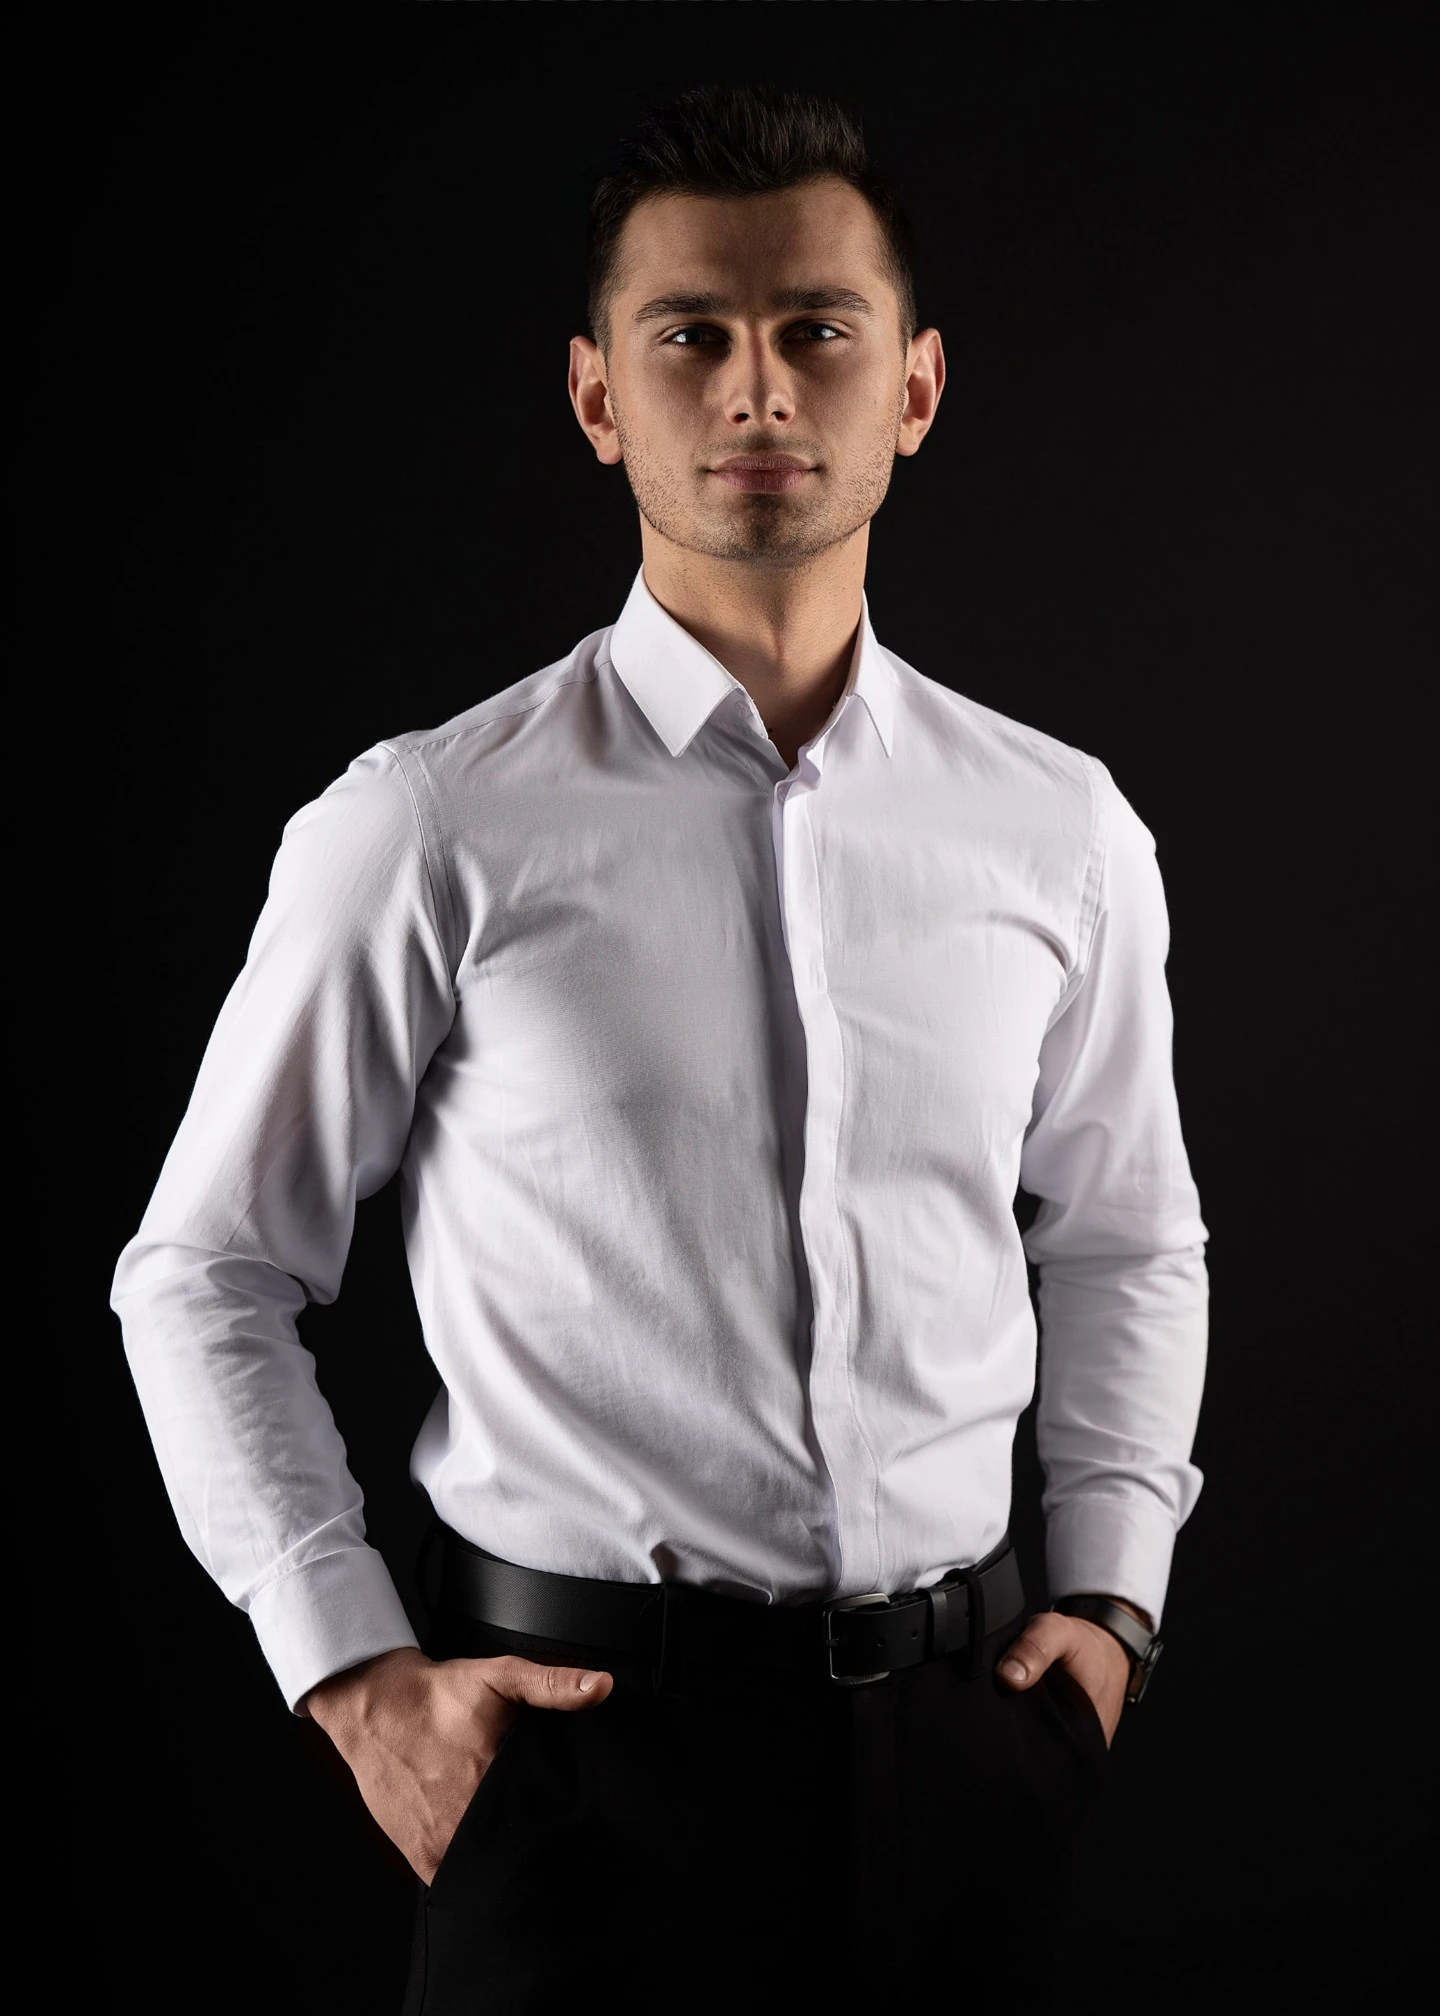
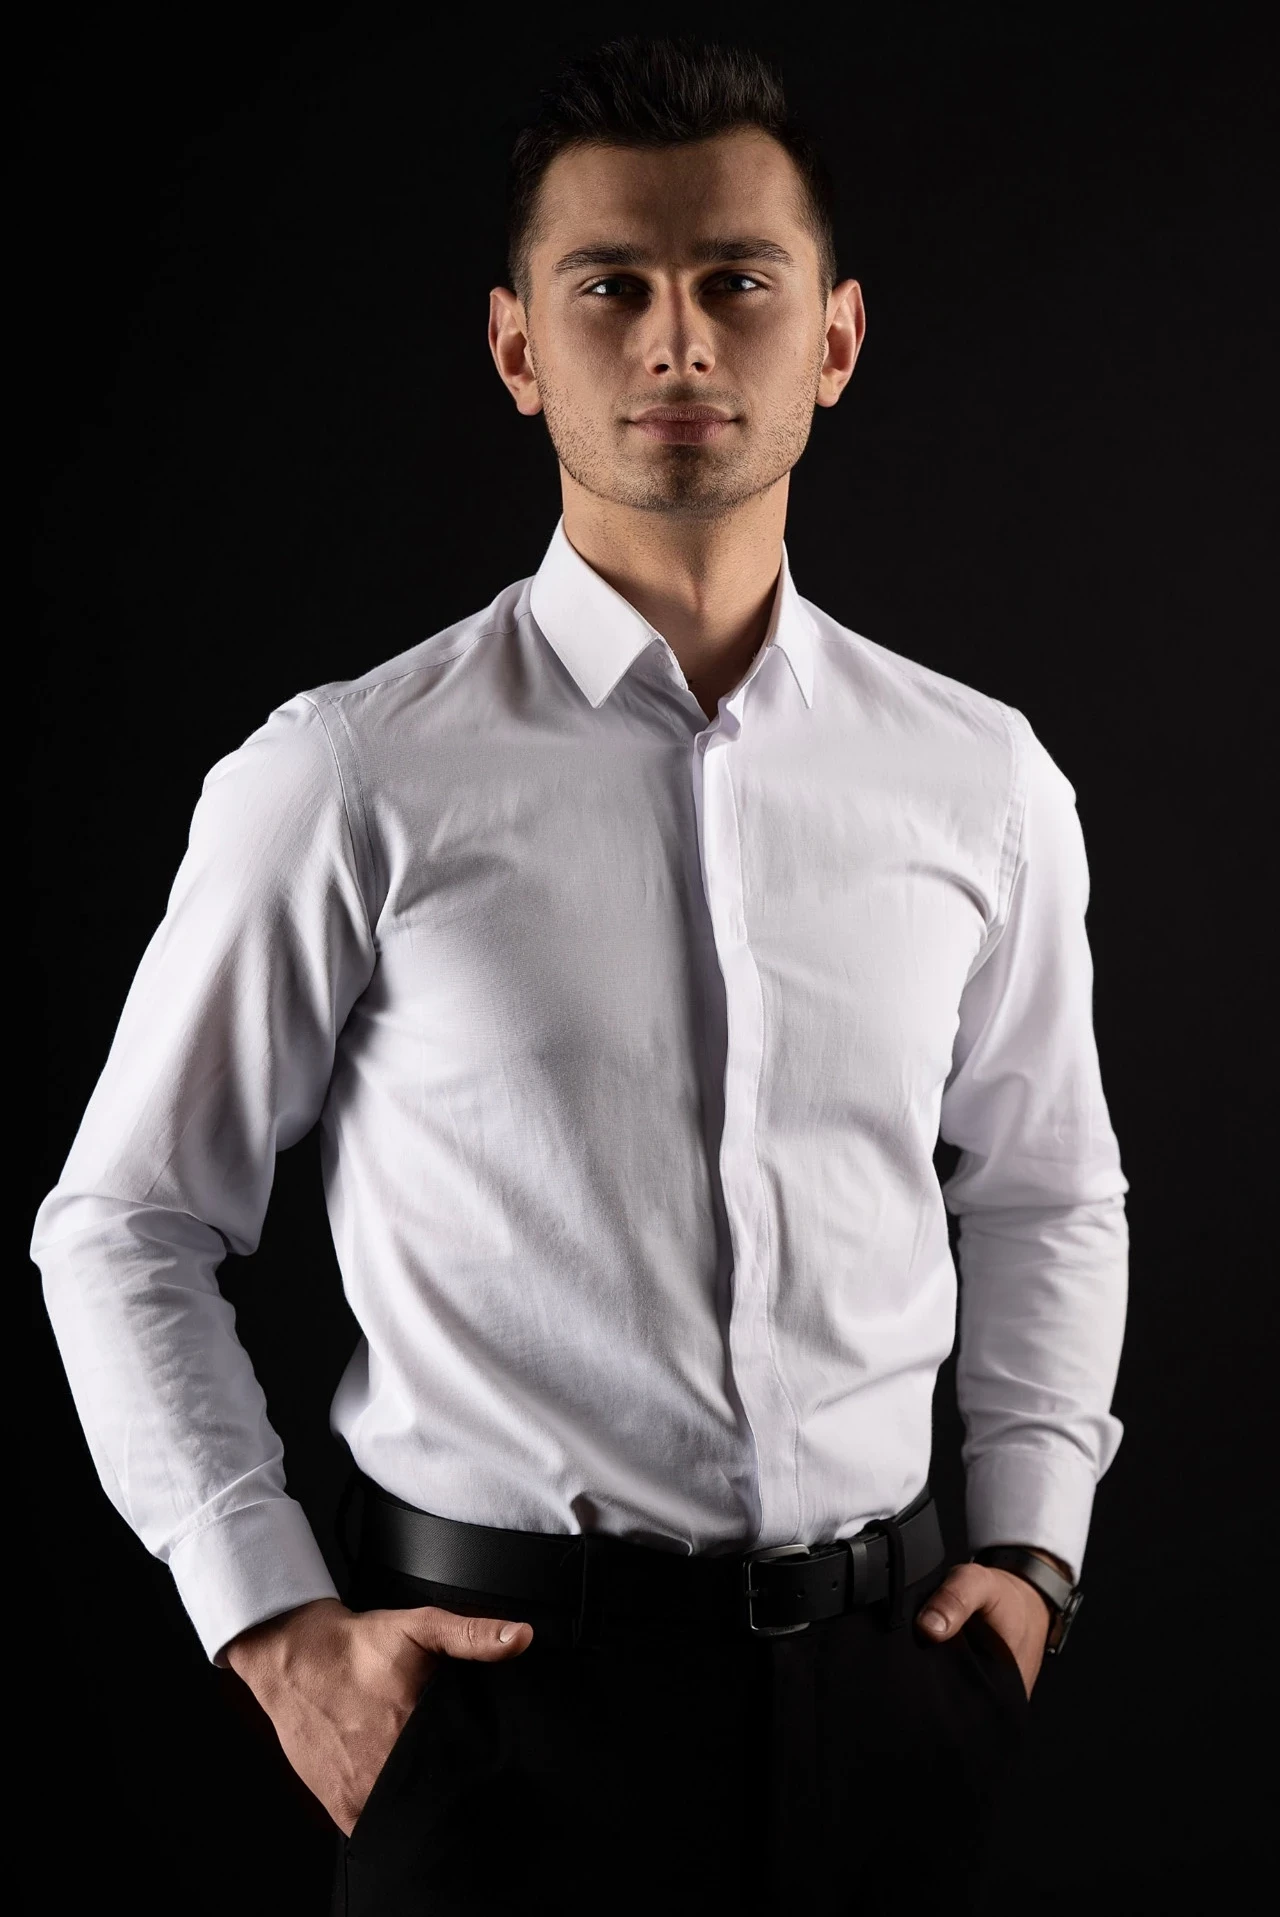
improved gradients and images in About page

Changed region(s): [[0.0, 0.0308, 0.9062, 0.9541]]

diff --git a/src/pages/omnie.tsx b/src/pages/omnie.tsx
@@ -29,20 +29,19 @@ function About() {
                     display: "flex",
                     flexDirection: "column",
                     justifyContent: "center",
-                    alignItems: "stretch",
+                    alignItems: "center",
                     padding: "30px",
-                    background: "rgba(0,0,0,.5)",
-                }}
-            >
+                    background: "rgba(0,0,0,.5)"
+                }}>
                 <Grow in={true} timeout={1000}>
                     <Box
                         sx={{
                             display: "flex",
                             flexDirection: "column",
                             justifyContent: "center",
-                            alignItems: "stretch",
-                        }}
-                    >
+                            alignItems: "center",
+                            maxWidth: "840px"
+                        }}>
                         {overMd ? (
                             <>
                                 <Typography variant="h1" sx={{ fontSize: "1.5rem" }} align="center">
@@ -60,9 +59,8 @@ function About() {
                                         padding: "1rem",
                                         borderRadius: "1rem",
                                         height: "600px",
-                                        flexGrow: 1,
-                                    }}
-                                >
+                                        flexGrow: 1
+                                    }}>
                                     <span
                                         style={{
                                             position: "absolute",
@@ -72,34 +70,31 @@ function About() {
                                             height: "100%",
                                             filter: "blur(15px)",
                                             background: "linear-gradient(270deg, #100B9A, #004DD0, #0079EB, #00A0EC, #00C4D9)",
-                                            zIndex: 1,
-                                        }}
-                                    ></span>
+                                            zIndex: 1
+                                        }}></span>
                                     <Image
                                         src={aboutSrc1}
                                         width={1440}
                                         height={2016}
                                         alt="O DJ KUBA - zdjęcie 1"
-                                        style={{ width: "auto", height: "100%", borderRadius: " 1rem 0 0 1rem", zIndex: 2 }}
-                                    ></Image>
+                                        style={{ width: "auto", height: "100%", borderRadius: " 1rem 0 0 1rem", zIndex: 2 }}></Image>
                                     <Box
                                         sx={{
                                             display: "flex",
                                             justifyContent: "flex-end",
                                             alignItems: "center",
                                             flexGrow: 1,
-                                            background: "linear-gradient(150deg, #101010, #030303 80%)",
+                                            background:
+                                                "linear-gradient(180deg, #0b0608, #0e0c0d 12%, #120f10 30%, #110e0f 50%, #0b0809 75%, #050505)",
                                             padding: "2rem",
                                             borderRadius: "0 1rem 1rem 0",
-                                            zIndex: 2,
-                                        }}
-                                    >
+                                            zIndex: 2
+                                        }}>
                                         <Typography sx={{ width: "400px", zIndex: 2 }} align={"right"}>
-                                            Cześć. Mam na imię Kuba i jestem muzykiem oraz djem z wieloletnim doświadczeniem. Przygodę z
-                                            muzyką rozpocząłem w 2010 r. Ukończyłem szkołę muzyczną 1 stopnia z wieloma osiągnięciami.
-                                            Jestem zrzeszonym djem w DJ Promotion. Od wielu lat zajmuję się profesjonalnym prowadzeniem
-                                            imprez okolicznościowych. Na koncie mam niezliczoną ilość eventów, wesel oraz innych
-                                            uroczystości.
+                                            Cześć. Mam na imię Kuba i jestem muzykiem oraz djem z wieloletnim doświadczeniem. Przygodę z muzyką
+                                            rozpocząłem w 2010 r. Ukończyłem szkołę muzyczną 1 stopnia z wieloma osiągnięciami. Jestem zrzeszonym djem
+                                            w DJ Promotion. Od wielu lat zajmuję się profesjonalnym prowadzeniem imprez okolicznościowych. Na koncie
+                                            mam niezliczoną ilość eventów, wesel oraz innych uroczystości.
                                         </Typography>
                                     </Box>
                                 </Box>
@@ -115,9 +110,8 @@ function About() {
                                         padding: "1rem",
                                         height: "600px",
                                         borderRadius: "1rem",
-                                        flexGrow: 1,
-                                    }}
-                                >
+                                        flexGrow: 1
+                                    }}>
                                     <span
                                         style={{
                                             position: "absolute",
@@ -127,28 +121,26 @@ function About() {
                                             height: "100%",
                                             filter: "blur(15px)",
                                             background: "linear-gradient(90deg, #845EC2, #D65DB1, #FF6F91, #FF9671, #FFC75F, #F9F871)",
-                                            zIndex: 1,
-                                        }}
-                                    ></span>
+                                            zIndex: 1
+                                        }}></span>
                                     <Box
                                         sx={{
                                             display: "flex",
                                             justifyContent: "flex-start",
                                             alignItems: "center",
                                             flexGrow: 1,
-                                            background: "linear-gradient(150deg, #101010, #030303 80%)",
+                                            background: "linear-gradient(180deg,  #050505 20%, #030303 80%)",
                                             padding: "2rem",
                                             borderRadius: " 1rem 0 0 1rem",
-                                            zIndex: 2,
-                                        }}
-                                    >
+                                            zIndex: 2
+                                        }}>
                                         <Typography sx={{ width: "400px", zIndex: 2 }} align={"left"}>
-                                            Do każdego klienta podchodzę indywidualnie z najwyższym zaangażowaniem oraz profesjonalnym
-                                            podejściem. Wybierając mnie na swoją imprezę gwarantuję Ci wyjątkową oprawę muzyczną,
-                                            zadowolenie gości, niezapomniany klimat oraz niesamowitą atmosferę, którą zapamiętasz na długie
-                                            lata. Niezwykle ważny jest odpowiedni dobór gatunków muzycznych do danej imprezy oraz jeszcze
-                                            lepszy konferansjer, który rozkręci każde towarzystwo. Jeśli szukasz profesjonalnej osoby, która
-                                            zadba o wyjątkową atmosferę na Twojej imprezie, to świetnie trafiłeś! Zapraszam do kontaktu.
+                                            Do każdego klienta podchodzę indywidualnie z najwyższym zaangażowaniem oraz profesjonalnym podejściem.
+                                            Wybierając mnie na swoją imprezę gwarantuję Ci wyjątkową oprawę muzyczną, zadowolenie gości, niezapomniany
+                                            klimat oraz niesamowitą atmosferę, którą zapamiętasz na długie lata. Niezwykle ważny jest odpowiedni dobór
+                                            gatunków muzycznych do danej imprezy oraz jeszcze lepszy konferansjer, który rozkręci każde towarzystwo.
+                                            Jeśli szukasz profesjonalnej osoby, która zadba o wyjątkową atmosferę na Twojej imprezie, to świetnie
+                                            trafiłeś! Zapraszam do kontaktu.
                                         </Typography>
                                     </Box>
                                     <Image
@@ -177,9 +169,8 @@ function About() {
                                         padding: ".5rem",
                                         borderRadius: ".5rem",
                                         height: "auto",
-                                        zIndex: 2,
-                                    }}
-                                >
+                                        zIndex: 2
+                                    }}>
                                     <span
                                         style={{
                                             position: "absolute",
@@ -189,27 +180,24 @@ function About() {
                                             height: "100%",
                                             filter: "blur(15px)",
                                             background: "linear-gradient(270deg, #100B9A, #004DD0, #0079EB, #00A0EC, #00C4D9)",
-                                            zIndex: 1,
-                                        }}
-                                    ></span>
+                                            zIndex: 1
+                                        }}></span>
                                     <Box
                                         sx={{
                                             display: "flex",
                                             justifyContent: "center",
                                             alignItems: "center",
                                             flexGrow: 1,
-                                            background: "#060606",
+                                            background: "linear-gradient(90deg, #020202 20%, #070707 50%, #080707 90%)",
                                             padding: "1rem",
                                             borderRadius: ".5rem .5rem 0 0 ",
-                                            zIndex: 2,
-                                        }}
-                                    >
+                                            zIndex: 2
+                                        }}>
                                         <Typography sx={{ width: "400px" }} align={"center"}>
-                                            Cześć. Mam na imię Kuba i jestem muzykiem oraz djem z wieloletnim doświadczeniem. Przygodę z
-                                            muzyką rozpocząłem w 2010 r. Ukończyłem szkołę muzyczną 1 stopnia z wieloma osiągnięciami.
-                                            Jestem zrzeszonym djem w DJ Promotion. Od wielu lat zajmuję się profesjonalnym prowadzeniem
-                                            imprez okolicznościowych. Na koncie mam niezliczoną ilość eventów, wesel oraz innych
-                                            uroczystości.
+                                            Cześć. Mam na imię Kuba i jestem muzykiem oraz djem z wieloletnim doświadczeniem. Przygodę z muzyką
+                                            rozpocząłem w 2010 r. Ukończyłem szkołę muzyczną 1 stopnia z wieloma osiągnięciami. Jestem zrzeszonym djem
+                                            w DJ Promotion. Od wielu lat zajmuję się profesjonalnym prowadzeniem imprez okolicznościowych. Na koncie
+                                            mam niezliczoną ilość eventów, wesel oraz innych uroczystości.
                                         </Typography>
                                     </Box>
                                     <Image
@@ -225,19 +213,18 @@ function About() {
                                             justifyContent: "center",
                                             alignItems: "center",
                                             flexGrow: 1,
-                                            background: "#060606",
+                                            background: "linear-gradient(90deg, #020202 0%, #030303 20%, #050505 80%)",
                                             padding: "1rem",
                                             borderRadius: "0 0 .5rem .5rem",
-                                            zIndex: 2,
-                                        }}
-                                    >
+                                            zIndex: 2
+                                        }}>
                                         <Typography sx={{ width: "400px" }} align={"center"}>
-                                            Do każdego klienta podchodzę indywidualnie z najwyższym zaangażowaniem oraz profesjonalnym
-                                            podejściem. Wybierając mnie na swoją imprezę gwarantuję Ci wyjątkową oprawę muzyczną,
-                                            zadowolenie gości, niezapomniany klimat oraz niesamowitą atmosferę, którą zapamiętasz na długie
-                                            lata. Niezwykle ważny jest odpowiedni dobór gatunków muzycznych do danej imprezy oraz jeszcze
-                                            lepszy konferansjer, który rozkręci każde towarzystwo. Jeśli szukasz profesjonalnej osoby, która
-                                            zadba o wyjątkową atmosferę na Twojej imprezie, to świetnie trafiłeś! Zapraszam do kontaktu.
+                                            Do każdego klienta podchodzę indywidualnie z najwyższym zaangażowaniem oraz profesjonalnym podejściem.
+                                            Wybierając mnie na swoją imprezę gwarantuję Ci wyjątkową oprawę muzyczną, zadowolenie gości, niezapomniany
+                                            klimat oraz niesamowitą atmosferę, którą zapamiętasz na długie lata. Niezwykle ważny jest odpowiedni dobór
+                                            gatunków muzycznych do danej imprezy oraz jeszcze lepszy konferansjer, który rozkręci każde towarzystwo.
+                                            Jeśli szukasz profesjonalnej osoby, która zadba o wyjątkową atmosferę na Twojej imprezie, to świetnie
+                                            trafiłeś! Zapraszam do kontaktu.
                                         </Typography>
                                     </Box>
                                 </Box>
